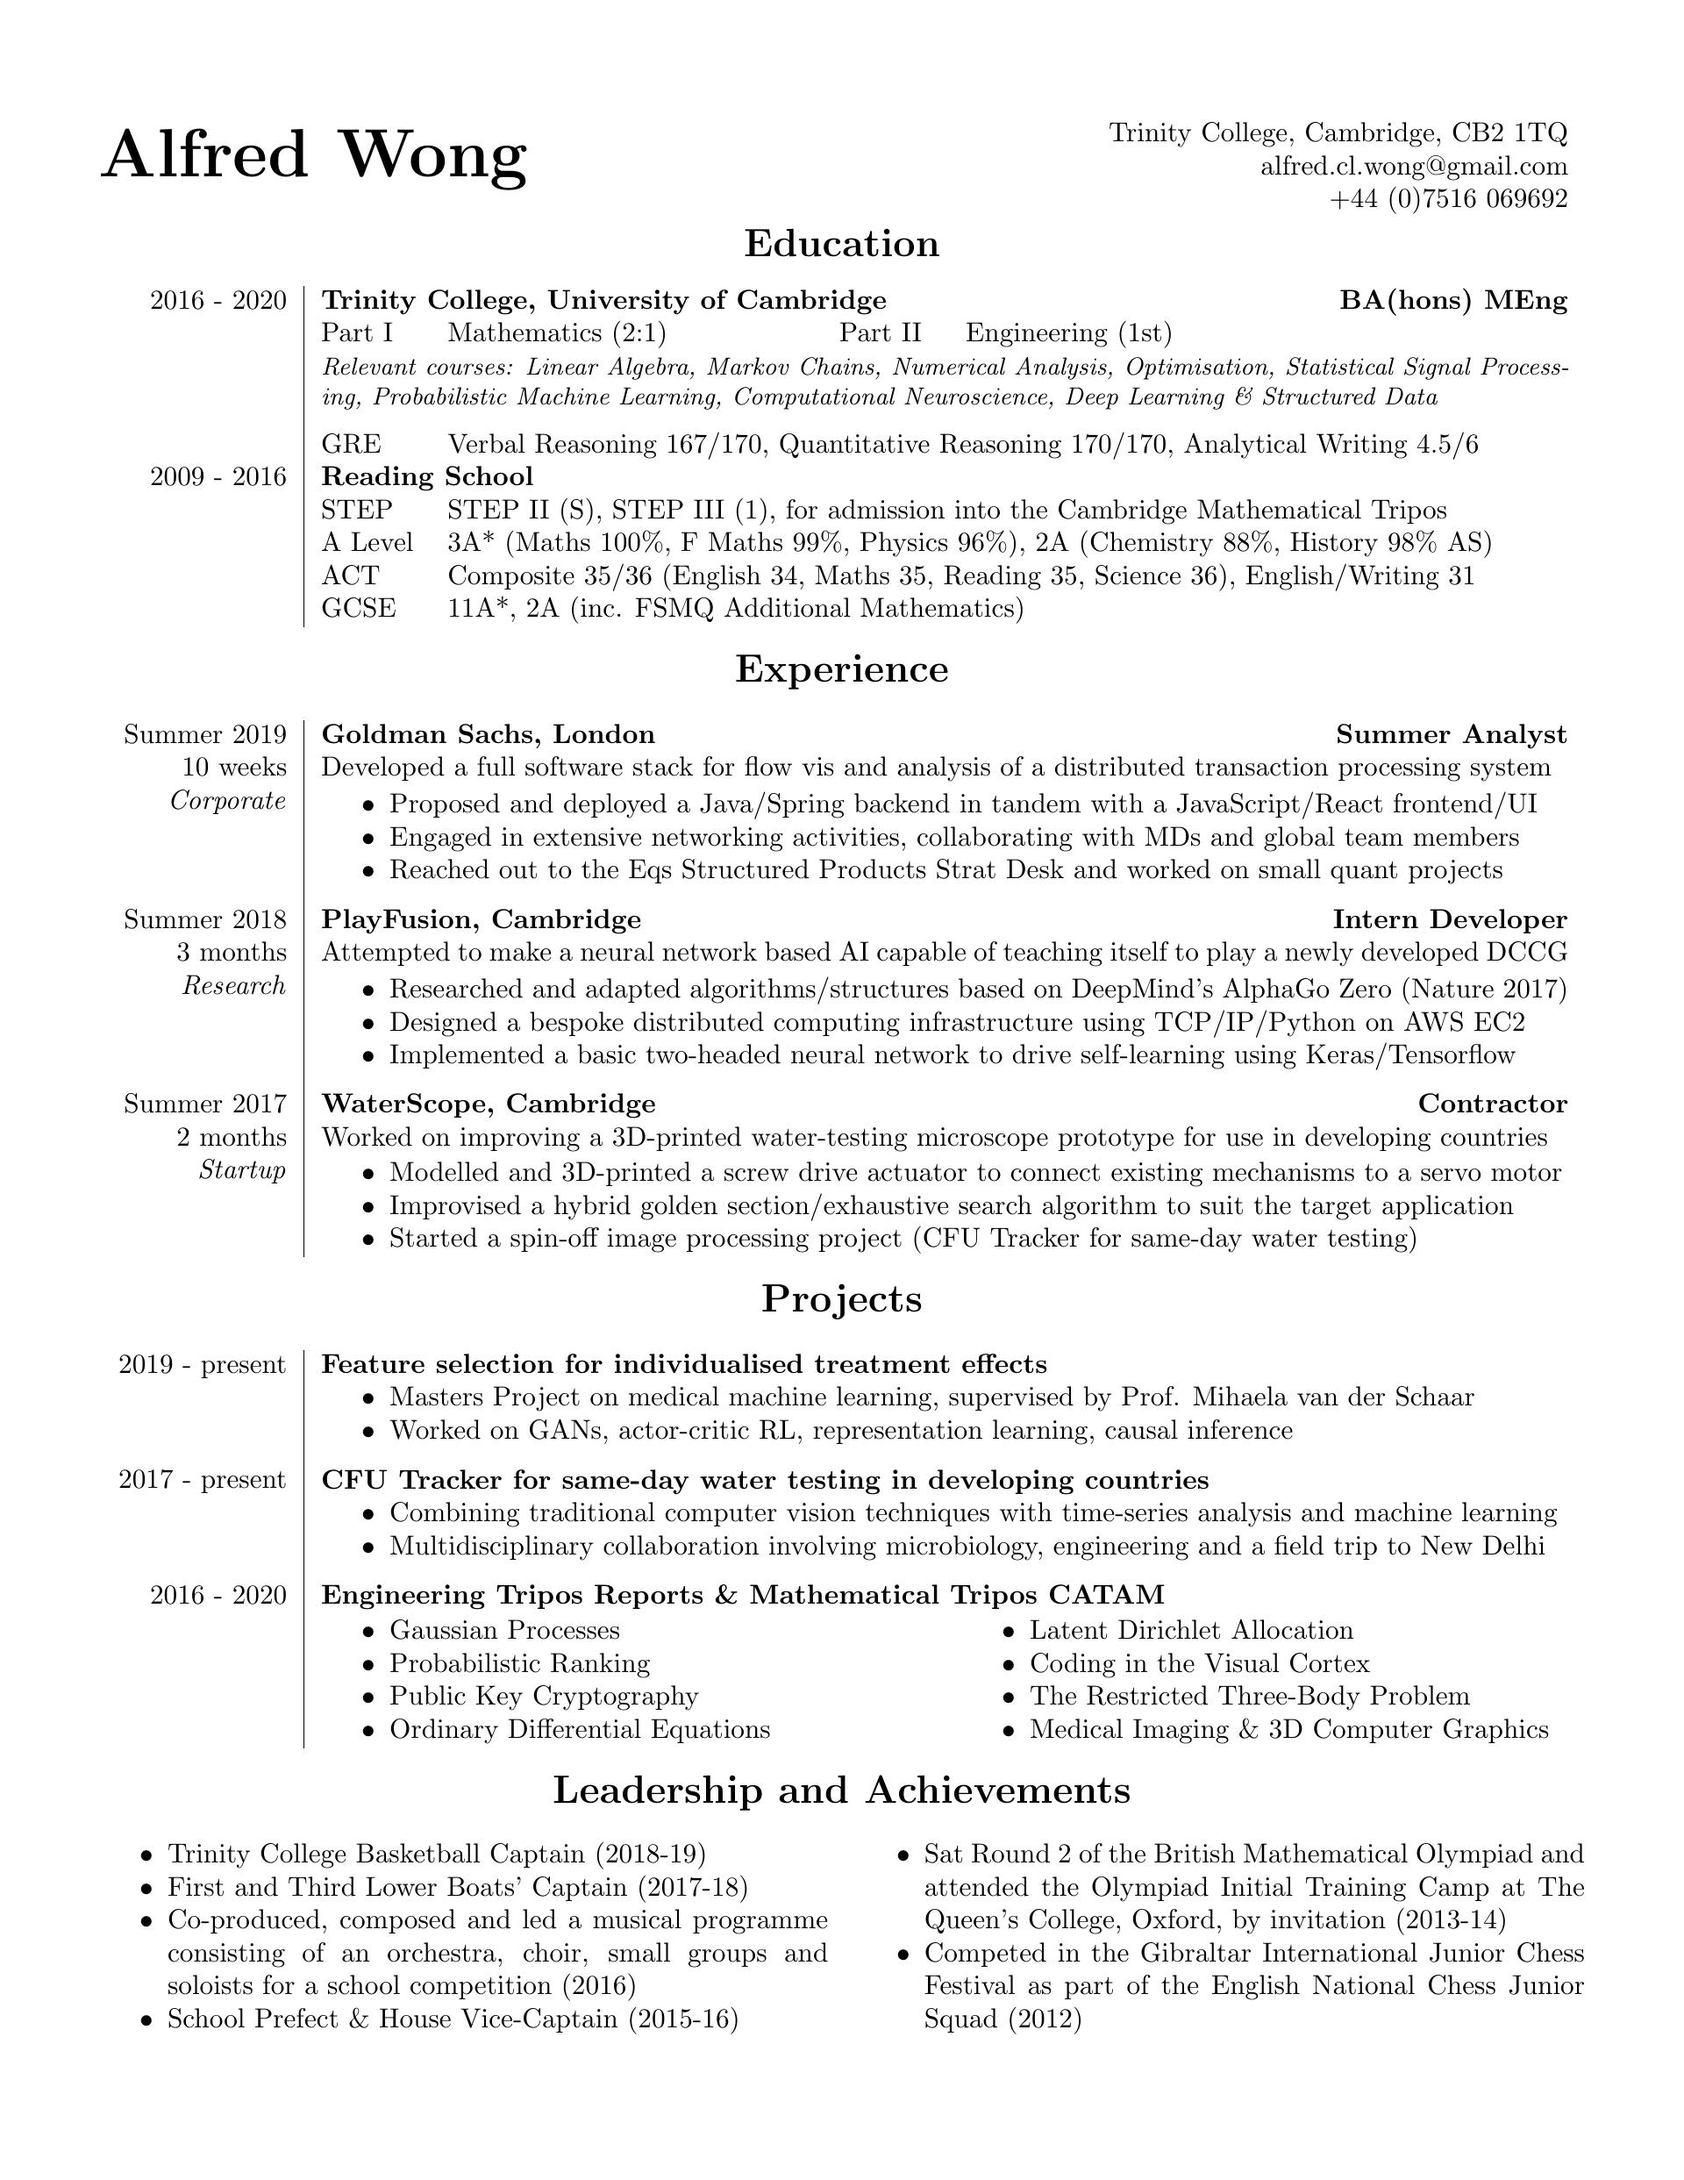
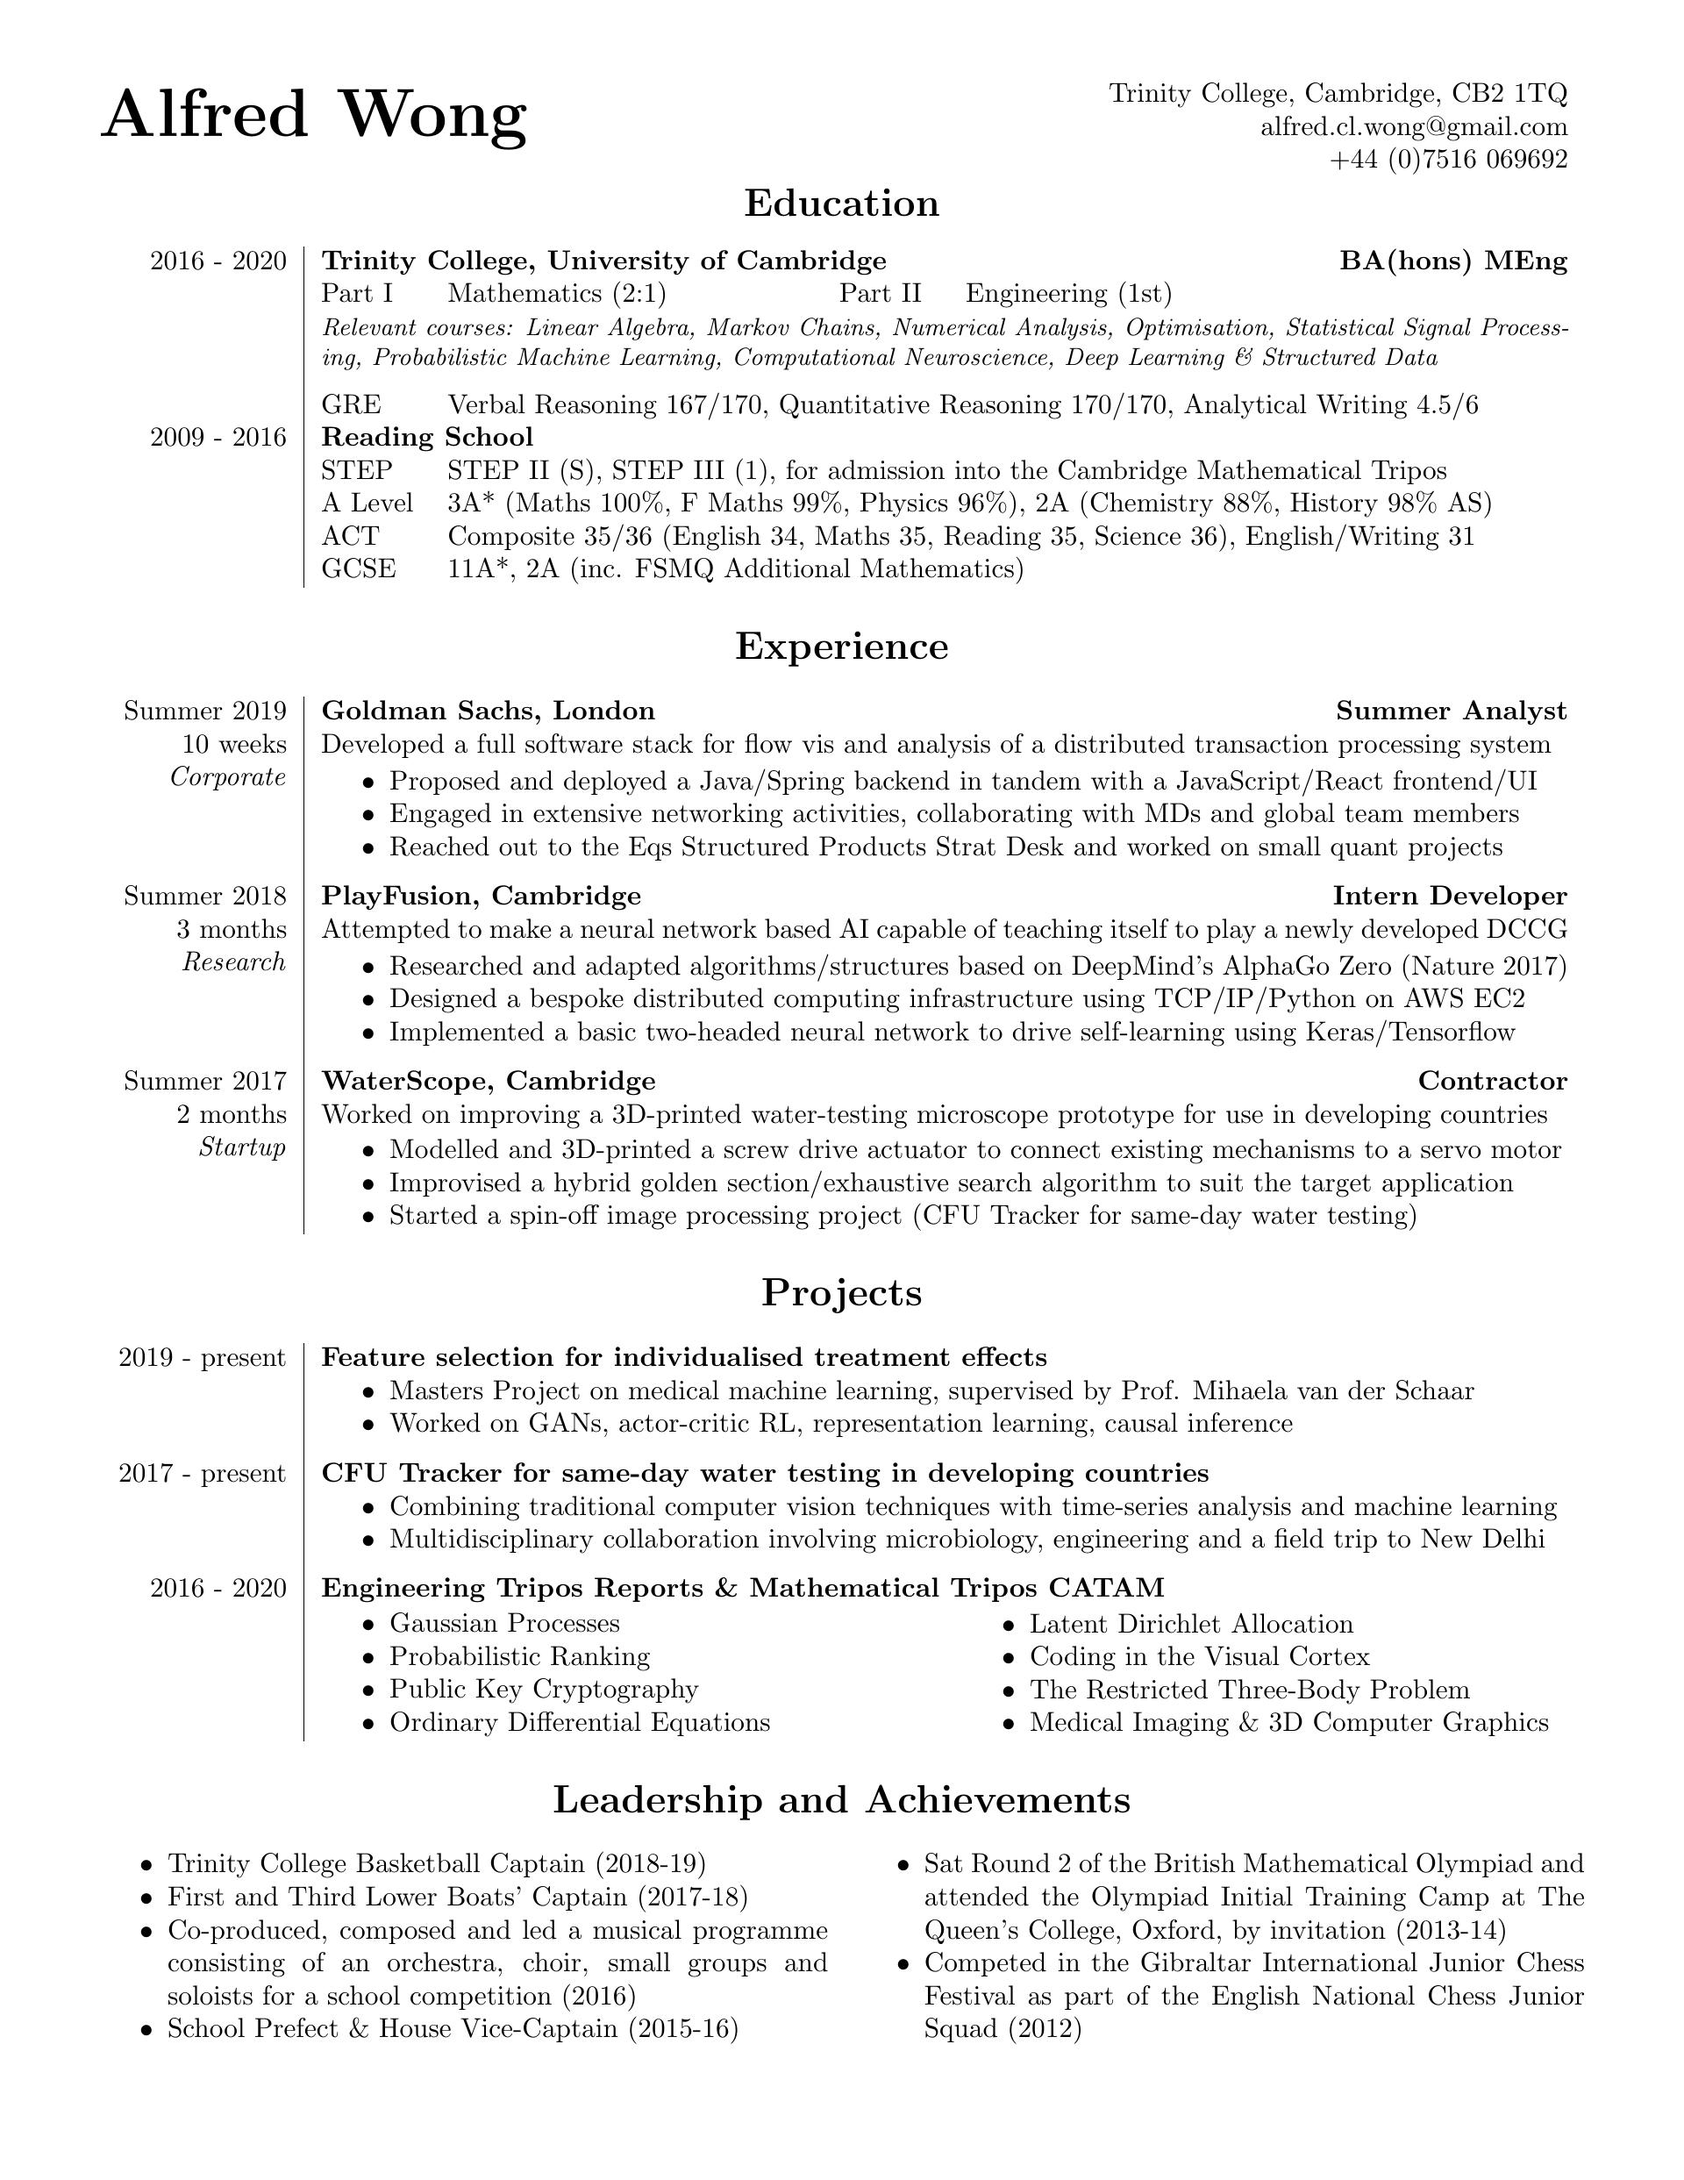
improved spacing

diff --git a/Alfred Wong resume.tex b/Alfred Wong resume.tex
@@ -1,6 +1,6 @@
 \documentclass[letterpaper, 10pt]{article}
 
-\usepackage[top=0.6in, bottom=0.4in, left=0.5in, right=0.5in]{geometry}
+\usepackage[top=0.4in, bottom=0.4in, left=0.5in, right=0.5in]{geometry}
 \usepackage{multirow, multicol}
 \usepackage[hidelinks]{hyperref}
 \usepackage{tabularx}
@@ -47,7 +47,7 @@
                 & GCSE & \multicolumn{3}{l}{11A*, 2A (inc. FSMQ Additional Mathematics)}\\
 \end{tabularx}
 
-\vspace{-0.5\baselineskip}
+%\vspace{-0.5\baselineskip}
 
 %\section*{\sout{\hfill} Experience \sout{\hfill}}
 \section*{Experience}
@@ -89,7 +89,7 @@ Summer 2017 & \textbf{WaterScope, Cambridge \hfill Contractor}\\
 \end{compact}
 \end{tabularx}
 
-\vspace{-0.5\baselineskip}
+%\vspace{-0.5\baselineskip}
 
 %{\centering\section*{\sout{\hfil} Projects \sout{\hfil}}}
 \section*{Projects}
@@ -152,7 +152,7 @@ Summer 2017 & \textbf{WaterScope, Cambridge \hfill Contractor}\\
 %}
 \end{tabularx}
 
-\vspace{-0.5\baselineskip}
+%\vspace{-0.5\baselineskip}
 
 %\section*{\sout{\hfill} Skills \sout{\hfill}}
 %\section*{Skills}
